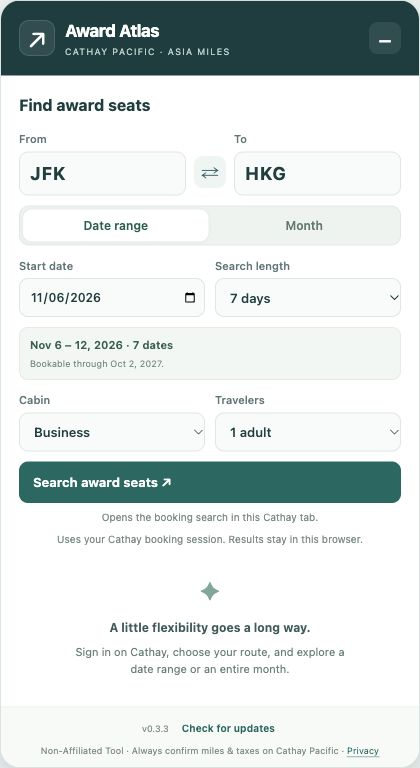
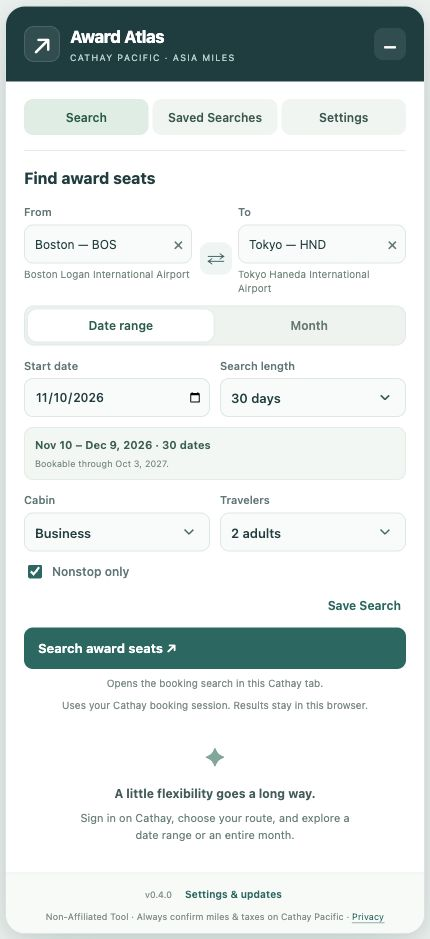
Publish Award Atlas 0.4.0 site, update policy and download counts

diff --git a/privacy.html b/privacy.html
@@ -1,1 +1,1 @@
-<!doctype html><html lang="en"><head><meta charset="utf-8"><meta name="viewport" content="width=device-width,initial-scale=1"><title>Award Atlas privacy policy</title><link rel="stylesheet" href="style.css"><link rel="icon" href="assets/mark.svg"></head><body><main class="wrap document"><nav class="brand"><a href="./">Award Atlas</a></nav><p class="eyebrow">Last updated October 7, 2026</p><h1>Privacy policy</h1><p>This policy covers the Award Atlas — Cathay award search Chrome extension, published by Nathan Tia, and this download website. Contact: <a href="mailto:ntia78@gmail.com">ntia78@gmail.com</a>.</p><h2>What the extension handles</h2><ul><li><strong>Search choices:</strong> origin and destination airports, departure dates or month, cabin, adult traveler count, and result filters.</li><li><strong>Cathay website information:</strong> the current Cathay tab's URL and loading state, temporary booking parameters including a booking-session identifier, and availability responses. These are used only to run your requested searches on Cathay.</li><li><strong>Search results and progress:</strong> normalized flight segments, times, reported cabin inventory, checked dates, error status, and panel visibility. Other fields in Cathay's raw responses are not retained in extension storage.</li></ul><p>The extension does not ask for or read your password, and has no permission to read Chrome's cookie store. Chrome sends your existing Cathay cookies directly to Cathay with same-origin requests. Temporary booking parameters are used in memory and are not saved in extension storage or sent to the developer.</p><h2>Where data goes</h2><p>When you start or continue a search, the extension sends the necessary search and booking parameters directly to Cathay's HTTPS sites: www.cathaypacific.com, api.cathaypacific.com, and book.cathaypacific.com. Cathay processes those requests under its own policies. Award Atlas does not send your search, booking session, raw responses, or results to a developer-operated server, analytics provider, advertising service, or data broker. It does not monitor other websites or build a browsing-history profile.</p><h2>Local storage and deletion</h2><p>Your latest query, normalized results, checked dates, panel state, and internal tab/document identifiers are stored in Chrome's extension session storage so progress survives a page redirect or extension-worker restart. Temporary booking parameters and raw responses are not stored. Clear results removes the stored search when no search or required waiting period is active. Chrome clears this session storage when the browser restarts or the extension is reloaded, updated, disabled, or removed. Signing out on Cathay ends your Cathay session separately.</p><p>Flight results are rendered on Cathay's page inside the panel; the page can observe the rendered panel content. No saved itinerary list is synchronized between devices.</p><h2>Permissions</h2><p><strong>Storage</strong> retains the local search and panel state. <strong>Scripting</strong> opens the panel and reads booking parameters or requests availability in your selected Cathay tab. Host access is limited to the three Cathay domains above. Executable extension code is packaged locally; no remote executable code is loaded.</p><h2>Extension updates</h2><p>Chrome Web Store installations receive updates through Chrome. ZIP installations require downloading a new ZIP, replacing the local extension files, and reloading the extension manually. The panel can ask Chrome for an update check when you choose Check for updates. This uses Chrome’s built-in update service and does not send your Cathay session or searches to the publisher. The installed version, pending update version, and last manual-check time are stored in extension session storage. Chrome handles update-service requests under Google’s policies. Updating the extension clears session results.</p><h2>Limited use</h2><p>Award Atlas's use of information complies with the Chrome Web Store User Data Policy, including its Limited Use requirements. Information is used only to provide the extension's award-search functionality. It is not sold, used for advertising, transferred for unrelated purposes, or used to determine creditworthiness or for lending. The developer cannot access the extension's locally stored searches through a backend.</p><h2>Support and this website</h2><p>If you email support, the publisher and email provider receive your email address and the information you choose to send. Support correspondence is used to respond to your request and investigate reported issues. Please do not send passwords, cookies, booking-session identifiers, or payment information. You may request deletion of support correspondence by emailing the address above, subject to any applicable retention obligations.</p><p>This static download website is hosted on GitHub Pages, and extension downloads are hosted on GitHub Releases. GitHub processes request information, including IP addresses, to deliver and secure these services under its <a href="https://docs.github.com/en/site-policy/privacy-policies/github-general-privacy-statement" rel="noopener noreferrer">privacy statement</a>. The linked support website is hosted on Cloudflare under its <a href="https://www.cloudflare.com/privacypolicy/" rel="noopener noreferrer">privacy policy</a>. This download website adds no cookies, analytics scripts, forms, or advertising. The extension does not contact this website unless you open a link to it. Google separately processes Chrome Web Store activity under its own policies.</p><h2>Changes</h2><p>Updates will be published here with a revised date. Material changes to the extension's data practices will also be disclosed as required by the Chrome Web Store.</p><footer>Award Atlas is independent of Cathay Pacific and Asia Miles.</footer></main></body></html>
+<!doctype html><html lang="en"><head><meta charset="utf-8"><meta name="viewport" content="width=device-width,initial-scale=1"><title>Award Atlas privacy policy</title><link rel="stylesheet" href="style.css"><link rel="icon" href="assets/mark.svg"></head><body><main class="wrap document"><nav class="brand"><a href="./">Award Atlas</a></nav><p class="eyebrow">Last updated October 8, 2026 · Version 0.4.0</p><h1>Privacy policy</h1><p>This policy covers Award Atlas — Cathay award search and this download website, published by Nathan Tia.</p><h2>Search information</h2><p>The extension handles your selected airports, dates, cabin, adult traveler count, filters, named saved searches and normalized availability results. It reads temporary booking parameters from your selected Cathay page to run searches. It does not ask for or read your password and has no permission to read Chrome’s cookie store. Chrome sends your existing cookies directly to Cathay with same-origin requests. Temporary booking parameters and raw availability responses are not persisted in extension storage.</p><h2>Where information goes</h2><p>Your requested searches go directly to the HTTPS hosts www.cathaypacific.com, api.cathaypacific.com and book.cathaypacific.com. Search data and Cathay session information are not sent to a developer-operated server, advertising provider or analytics service. The extension does not monitor other sites or build a browsing-history profile. Airport autocomplete uses a bundled public-domain OurAirports catalog and sends no lookup query over the network.</p><h2>Local storage</h2><p>From version 0.4.0, preferences, named search configurations, and your latest normalized search results/progress are stored in Chrome extension local storage and persist across restarts and updates when the same extension identity is retained. Named searches contain choices rather than result snapshots. Temporary tab/document IDs and active-job state live in extension session storage. A restored unfinished search is paused and needs a new Cathay booking session before continuing.</p><p>Clear results removes the stored search/results; delete saved searches individually. Removing the extension deletes its local data. Data is not synchronized across devices. Earlier 0.3.x results used session storage only and are cleared by Chrome on update/reload. Signing out on Cathay ends its login separately. Cathay’s page can observe the panel content rendered on it.</p><h2>Updates and version policy</h2><p>At startup, approximately every six hours, and on manual checks, the extension requests public release metadata from api.github.com and a public JSON version policy from raw.githubusercontent.com. These requests contain no Cathay search, account or session information and no GitHub credentials. GitHub necessarily receives ordinary connection information, such as your IP address. Release versions/notes, cache validators, check times, errors and the last validated policy are cached locally. A valid minimum-version policy can require an update; network failure alone does not block use. Update Now opens GitHub Releases. ZIP upgrades require manual file replacement and Chrome Reload.</p><h2>Permissions</h2><p>Storage retains the local information described above. Scripting opens the panel and performs search operations in the selected Cathay tab. Alarms schedules update checks. Host access is limited to the three Cathay hosts and the two GitHub metadata hosts above. Content scripts run only on Cathay. All executable extension code is packaged locally; remote data is never executed as code.</p><h2>Data use and help</h2><p>Information is used to provide search, saved-search and update functionality. It is not sold, used for advertising, or transferred for unrelated purposes. The publisher cannot retrieve your local searches through a backend. For help, use <a href="https://github.com/somomentous/award-atlas/issues">GitHub issues</a>. Issues are public: include only the version and a sanitized error description, never passwords, cookies, session IDs, membership or payment details. GitHub processes what you choose to post under its own policies.</p><h2>This website</h2><p>The download website and release assets use GitHub Pages and GitHub Releases. GitHub processes request information to deliver and secure those services under its <a href="https://docs.github.com/en/site-policy/privacy-policies/github-general-privacy-statement">privacy statement</a>. The legacy support site is hosted by Cloudflare under its <a href="https://www.cloudflare.com/privacypolicy/">privacy policy</a>. These static pages add no advertising, forms, visitor analytics or cookies. The download page reads public aggregate ZIP-download counts from the GitHub API. It does not send button-click events, track individual visitors, or count installed extensions. GitHub receives ordinary connection information for those metadata requests. Opening an external link is a separate request to its host.</p><h2>Changes</h2><p>Changes to these practices will be reflected here and in release notes. <a href="https://ourairports.com/data/">OurAirports data</a> is public domain; attribution is included in the extension package.</p><footer>Non-Affiliated Tool · Always confirm miles &amp; taxes on Cathay Pacific</footer></main></body></html>

diff --git a/index.html b/index.html
@@ -8,6 +8,7 @@
   <title>Award Atlas — Find your next award flight</title>
   <link rel="icon" href="assets/mark.svg" type="image/svg+xml">
   <link rel="stylesheet" href="style.css">
+  <script type="module" src="download-stats.mjs"></script>
 </head>
 <body>
   <a class="skip-link" href="#main">Skip to content</a>
@@ -32,8 +33,14 @@
           </a>
           <a class="text-link" href="#install">Installation guide</a>
         </div>
-        <p class="download-meta">Free · v0.3.3 · Desktop Chrome on Mac &amp; Windows</p>
-        <p class="store-note">Install from the ZIP today. Chrome Web Store submission is pending review.</p>
+        <p class="download-meta">Free · v0.4.0 · Desktop Chrome on Mac &amp; Windows</p>
+        <p class="store-note">Install manually from GitHub Releases. Includes Saved Searches and offline airport lookup.</p>
+        <section id="download-stats" class="download-stats" aria-label="Download statistics" aria-busy="true">
+          <dl><div><dt>Total downloads</dt><dd id="total-downloads">—</dd></div><div><dt id="latest-download-label">Latest version downloads</dt><dd id="latest-downloads">—</dd></div></dl>
+          <p id="download-stats-status" role="status">Loading GitHub download counts…</p>
+          <a href="https://github.com/somomentous/award-atlas/releases">View releases</a>
+          <noscript><p>Enable JavaScript to display GitHub download counts.</p></noscript>
+        </section>
         <dl class="quick-facts">
           <div><dt>7 / 14 / 30</dt><dd>day search ranges</dd></div>
           <div><dt>A whole month</dt><dd>for flexible travel plans</dd></div>
@@ -41,16 +48,16 @@
         </dl>
       </div>
       <figure class="product-preview">
-        <div class="preview-topline"><span>THE LITTLE PANEL WITH BIG PLANS</span><span>v0.3.3</span></div>
-        <img class="panel-image" src="assets/panel.jpg" width="420" height="768" alt="Award Atlas’s compact panel with JFK to HKG, date range and month modes, cabin and traveler choices, and Search award seats.">
-        <figcaption>Actual extension panel. Search directly on your Cathay tab.</figcaption>
+        <div class="preview-topline"><span>THE LITTLE PANEL WITH BIG PLANS</span><span>v0.4.0</span></div>
+        <img class="panel-image" src="assets/panel.jpg" width="430" height="940" alt="Award Atlas’s compact panel with airport autocomplete, Saved Searches, date range and month modes, cabin and traveler choices, and Search award seats.">
+        <figcaption>Extension panel in a local preview. Search directly on your Cathay tab.</figcaption>
       </figure>
     </section>
 
     <section class="benefits wrap" aria-label="Features">
       <article><span class="feature-number">01</span><h2>A little more flexibility.</h2><p>Search 7, 14, or 30 days, or choose a month in the current or following year. Dates stay within the supported booking window.</p></article>
-      <article><span class="feature-number">02</span><h2>Stay on Cathay.</h2><p>Sign in to your own Cathay account, open the panel, and search. Filter results by departure date or nonstop flights.</p></article>
-      <article><span class="feature-number">03</span><h2>Keep it in your browser.</h2><p>Search requests go directly to Cathay. Results stay in your browser session, with no extension analytics or search backend.</p></article>
+      <article><span class="feature-number">02</span><h2>Stay on Cathay.</h2><p>Find airports by city, country, name or code. Save your route and filters under a name, then reopen, edit or rerun them later.</p></article>
+      <article><span class="feature-number">03</span><h2>Keep it in your browser.</h2><p>Search requests go directly to Cathay. Saved searches and results stay locally in your browser, with no extension analytics or search backend. GitHub supplies public update metadata.</p></article>
     </section>
 
     <section class="install-section" id="install" aria-labelledby="install-title">
@@ -72,17 +79,17 @@
     <section class="wrap essentials" aria-labelledby="essentials-title">
       <div><p class="eyebrow">GOOD TO KNOW</p><h2 id="essentials-title">Before your first search.</h2></div>
       <div class="faq">
-        <details open><summary>How do I update the ZIP version?</summary><p>ZIP installations update manually. Download the newest ZIP from this page, extract it, and replace the files in the folder Chrome originally loaded. Finish or stop any search, then click <strong>Reload inside the Award Atlas card</strong> at <code>chrome://extensions</code>. Refresh your Cathay tab. Reloading alone does not download new files; updating clears current results.</p><p>Once available, Chrome Web Store installations will receive updates through Chrome.</p></details>
+        <details open><summary>How do I update the ZIP version?</summary><p>ZIP installations update manually. Download the newest ZIP from this page, extract it, and replace the files in the folder Chrome originally loaded. Finish or stop any search, then click <strong>Reload inside the Award Atlas card</strong> at <code>chrome://extensions</code>. Refresh your Cathay tab. Reloading alone does not download new files. Keep the same installed folder and extension identity to preserve saved searches, preferences and results from v0.4.0 onward. Earlier v0.3.x session results cannot survive the first reload. Settings alerts you when GitHub has an update; Update Now opens its release page.</p></details>
         <details><summary>What if a search pauses or finds no seats?</summary><p>Keep the Cathay booking tab open and complete any sign-in or verification prompts on Cathay. Follow the panel’s waiting instructions, then choose <strong>Continue remaining dates</strong> when available. Checked dates are kept; unchecked dates remain unknown. Cathay’s website changes or request limits can interrupt searches.</p></details>
         <details><summary>Does this book flights or access my password?</summary><p>No. Sign in directly on Cathay; Award Atlas does not ask for or read your password and has no permission to read Chrome’s cookie store. It uses your existing Cathay session to search. Confirm availability, miles, taxes, and any booking directly with Cathay.</p></details>
-        <details><summary>Where can I get help?</summary><p>Email <a href="mailto:ntia78@gmail.com">ntia78@gmail.com</a> with the extension version and error message. Please leave out passwords, cookies, session identifiers, and member or payment details. You can also read the <a href="https://award-atlas-info.nate-cb0.workers.dev/support">support guide</a>.</p></details>
+        <details><summary>Where can I get help?</summary><p>Open a <a href="https://github.com/somomentous/award-atlas/issues">GitHub issue</a> with the extension version and error message. Please leave out passwords, cookies, session identifiers, and member or payment details.</p></details>
       </div>
     </section>
   </main>
 
   <footer class="site-footer wrap">
     <div><a class="brand" href="./"><img src="assets/mark.svg" width="30" height="30" alt=""><span>Award Atlas</span></a><p>Non-Affiliated Tool · Always confirm miles &amp; taxes on Cathay Pacific</p><p>Not affiliated with or endorsed by Cathay Pacific or Asia Miles.</p></div>
-    <nav aria-label="Footer navigation"><a href="privacy.html">Privacy</a><a href="mailto:ntia78@gmail.com">Contact</a><a href="https://github.com/somomentous/award-atlas">GitHub</a></nav>
+    <nav aria-label="Footer navigation"><a href="privacy.html">Privacy</a><a href="https://github.com/somomentous/award-atlas/issues">Help</a><a href="https://github.com/somomentous/award-atlas">GitHub</a></nav>
   </footer>
 </body>
 </html>

diff --git a/style.css b/style.css
@@ -6,3 +6,4 @@
 @media(max-width:800px){.wrap{width:calc(100% - 48px)}.site-header{min-height:85px}.hero{grid-template-columns:1fr;gap:42px;padding-block:45px}.hero-copy{max-width:570px}h1{font-size:57px;letter-spacing:-2.5px}.intro{max-width:510px}.product-preview{width:100%;max-width:570px;display:none}.quick-facts{gap:25px;margin-top:28px}.quick-facts>div+div{padding-left:25px}.quick-facts dt{font-size:15px}.quick-facts dd{font-size:12px}.benefits{gap:20px;padding-block:30px 40px}.benefits h2{font-size:17px}.benefits p{font-size:13px}.install-grid,.essentials{grid-template-columns:1fr;gap:35px}.install-heading h2{font-size:36px}.install-heading h2 br{display:none}.install-heading>p:not(.eyebrow){max-width:530px}.install-heading .text-link{margin-top:4px}.install-section{padding-block:45px}.essentials{padding-block:45px}.essentials h2{max-width:none;font-size:29px;margin-bottom:0}.site-footer{flex-direction:column;gap:22px}}
 @media(max-width:480px){.wrap{width:calc(100% - 36px)}.brand{font-size:19px;gap:8px}.brand img{width:32px;height:32px}.site-header nav{gap:18px}.site-header nav a{font-size:12px}.site-header nav a svg{display:none}.hero{padding-top:35px}.eyebrow{font-size:9px;letter-spacing:1.1px;gap:8px}h1{font-size:45px;letter-spacing:-1.8px;margin-block:20px}.intro{font-size:17px;line-height:1.7}.hero-actions{align-items:flex-start;flex-direction:column;gap:18px}.button{width:100%;padding:17px 18px}.hero-actions>.text-link{align-self:center}.download-meta{text-align:center;font-size:11px;margin-top:18px}.store-note{text-align:center;font-size:11px}.quick-facts{justify-content:space-between;gap:10px;padding-top:23px}.quick-facts>div+div{padding-left:10px}.quick-facts dt{font-size:12px}.quick-facts dd{font-size:10px;max-width:100px}.benefits{grid-template-columns:1fr;gap:25px}.benefits article{display:grid;grid-template-columns:25px 1fr;gap:0 12px}.feature-number{grid-row:1 / 3;margin-top:2px}.benefits h2{font-size:18px;margin-bottom:6px}.benefits p{font-size:14px;grid-column:2}.steps li{gap:14px}.steps h3{font-size:17px}.steps p,.faq p{font-size:14px}.install-heading h2{font-size:34px}.faq summary{font-size:15px}.site-footer p{font-size:10px}.document h1{font-size:38px}}
 @media(prefers-reduced-motion:reduce){html{scroll-behavior:auto}}
+.download-stats{max-width:440px;margin:23px 0 0;padding:17px 20px;border:1px solid var(--line);border-radius:12px;background:var(--soft)}.download-stats dl{display:grid;grid-template-columns:1fr 1fr;gap:18px;margin:0}.download-stats dt{font-size:11px;line-height:1.5;color:var(--muted)}.download-stats dd{font-size:26px;font-weight:650;letter-spacing:-.6px;line-height:1.3;margin:5px 0 0;font-variant-numeric:tabular-nums}.download-stats p{font-size:10px;line-height:1.6;color:var(--muted);margin:12px 0 4px}.download-stats>a{font-size:10px;font-weight:600}@media(max-width:480px){.download-stats{max-width:none;padding:15px 17px}}

diff --git a/README.md b/README.md
@@ -1,40 +1,31 @@
 # Award Atlas
 
-A free Chrome extension that searches Cathay Pacific award-seat availability in a compact panel on Cathay’s website.
+A free Chrome extension for searching Cathay Pacific award seats in a compact panel on Cathay’s website.
 
-**[Visit the website](https://somomentous.github.io/award-atlas/)** · **[Download Award Atlas ZIP](https://github.com/somomentous/award-atlas/releases/latest/download/Award-Atlas.zip)** · [Release notes](https://github.com/somomentous/award-atlas/releases)
+[Website](https://somomentous.github.io/award-atlas/) · [Download ZIP](https://github.com/somomentous/award-atlas/releases/latest/download/Award-Atlas.zip) · [Release notes](https://github.com/somomentous/award-atlas/releases)
 
-Current version: **0.3.3**. The Chrome Web Store submission is pending review. The ZIP is available now for manual installation.
+## Install
 
-## Install on Mac or Windows
+Download the release ZIP asset, not GitHub’s Source code archive. Extract it (double-click on Mac; Extract All on Windows), keep the `award-atlas-extension` folder in a permanent location, then open `chrome://extensions` in desktop Chrome 120+. Enable Developer mode, click Load unpacked, and select the folder containing `manifest.json`. Pin Award Atlas, sign in directly on Cathay, refresh that tab, and click the extension icon.
 
-1. Download the ZIP above. On Mac, double-click it. On Windows, right-click and choose **Extract All**.
-2. Move the extracted `award-atlas-extension` folder somewhere permanent, such as Documents.
-3. In desktop Chrome (120 or later), open `chrome://extensions` and turn on **Developer mode**.
-4. Click **Load unpacked** and select the inner `award-atlas-extension` folder containing `manifest.json`. Select the folder, not the ZIP.
-5. Pin Award Atlas from Chrome’s puzzle-piece menu. Sign in directly on [Cathay Pacific](https://www.cathaypacific.com/), refresh the tab, then click the extension icon.
-6. Choose your route, cabin, adult traveler count, and a **7-, 14-, or 30-day range** or **calendar month**. Click **Search award seats** and keep the Cathay booking tab open.
+Choose airports with city/country/name/IATA suggestions, then cabin, adults, and 7/14/30 days or a month. Keep the Cathay tab open. Save Search stores named configurations for later use; Saved Searches lets you run, rename, edit or delete them.
 
-The ZIP includes a full `README.txt`. Keep the installed folder in place.
+## Update
 
-## Updates
+Settings > Check for Updates checks GitHub releases. Update Now opens the release page; it does not install a ZIP automatically. Stop your search, download/extract the latest ZIP, replace files in the **same installed folder**, click Reload on Award Atlas’s card, and refresh Cathay. Do not remove the extension or load a new folder.
 
-ZIP installations do not update automatically. Download the newest ZIP, extract it, replace the files in the existing extension folder, and click **Reload inside the Award Atlas card** at `chrome://extensions`. Then refresh your Cathay tab. Finish or stop any search first. Updating clears session results.
+Local preferences, saved searches and normalized progress persist from 0.4.0 onward if the extension identity stays the same. Earlier 0.3.x results used session storage and cannot survive Chrome clearing them on the first upgrade. Managed-device installation requires administrator policies; this ZIP does not configure that deployment.
 
-Reloading alone does not download new files. Once available, Chrome Web Store installations will receive updates through Chrome.
+## Privacy and help
 
-## Privacy and support
+Searches go directly to Cathay; local airport lookup works offline. GitHub receives public release/policy metadata requests, not Cathay account/search data. The extension uses no analytics or developer-operated search backend. [Privacy](https://somomentous.github.io/award-atlas/privacy.html) · [GitHub issues](https://github.com/somomentous/award-atlas/issues).
 
-Search requests go directly from your browser to Cathay. Search progress and normalized results stay in browser session storage. No extension analytics or developer-operated search backend is used. Sign in directly on Cathay; the extension does not ask for your password or book flights.
-
-- [Privacy policy](https://somomentous.github.io/award-atlas/privacy.html)
-- [Support guide](https://award-atlas-info.nate-cb0.workers.dev/support)
-- Email: [ntia78@gmail.com](mailto:ntia78@gmail.com)
-
-Cathay website changes, session expiry, and request limits can interrupt searches. Unchecked dates are unknown. Always confirm availability, miles, and taxes directly with Cathay Pacific.
+Cathay website changes, session expiry and limits can interrupt searches. Unchecked dates are unknown. An owner minimum-version policy can require an update without deleting your local data. ZIP installation/updates remain manual.
 
 **Non-Affiliated Tool · Always confirm miles & taxes on Cathay Pacific**
 
-Award Atlas is not affiliated with or endorsed by Cathay Pacific or Asia Miles. Distributed under the [MIT License](LICENSE).
+Not affiliated with Cathay Pacific or Asia Miles. [MIT License](LICENSE). This repository hosts the public website, JSON version policy and release assets.
 
-This repository hosts the public webpage and downloadable releases.
+## Download statistics
+
+The website displays GitHub’s aggregate release-asset download counts: all Award Atlas ZIPs across releases, and the latest version’s ZIPs. This includes downloads from any link and repeat downloads; it does not measure unique users, successful installs, website visitors or button clicks. Counts can lag and depend on GitHub API availability/rate limits. No analytics account, cookies, credentials or paid service is needed.

diff --git a/CHANGELOG.md b/CHANGELOG.md
@@ -1,0 +1,18 @@
+# Changelog
+
+## 0.4.0 — 2026-10-08
+
+- GitHub Releases distribution with versioned production ZIPs and an Actions build workflow.
+- Startup, six-hour background, and manual update checks with cached release notes.
+- Owner-managed minimum-version policy. A cached valid policy remains effective offline; network errors alone never lock the extension.
+- Saved Searches: create, name, rename, edit, rerun, and confirm deletion.
+- Dates Past badges identify saved dates needing edits; names preserve user-selected capitalization.
+- Persistent local preferences and normalized search progress; restored searches require a fresh Cathay booking session.
+- Offline OurAirports autocomplete for cities, countries, airport names, IATA codes, aliases, and typos.
+- Removed support email links from the extension and user documentation.
+- Website shows aggregate GitHub ZIP-download counts for all releases and the latest version.
+
+Update Now opens the GitHub release. ZIP installation and updates require a
+manual file replacement and Chrome Reload. Existing 0.3.x session-only results
+cannot be recovered after Chrome clears them during a reload. Retain the same
+extension folder and installation to preserve local data from 0.4.0 onward.
